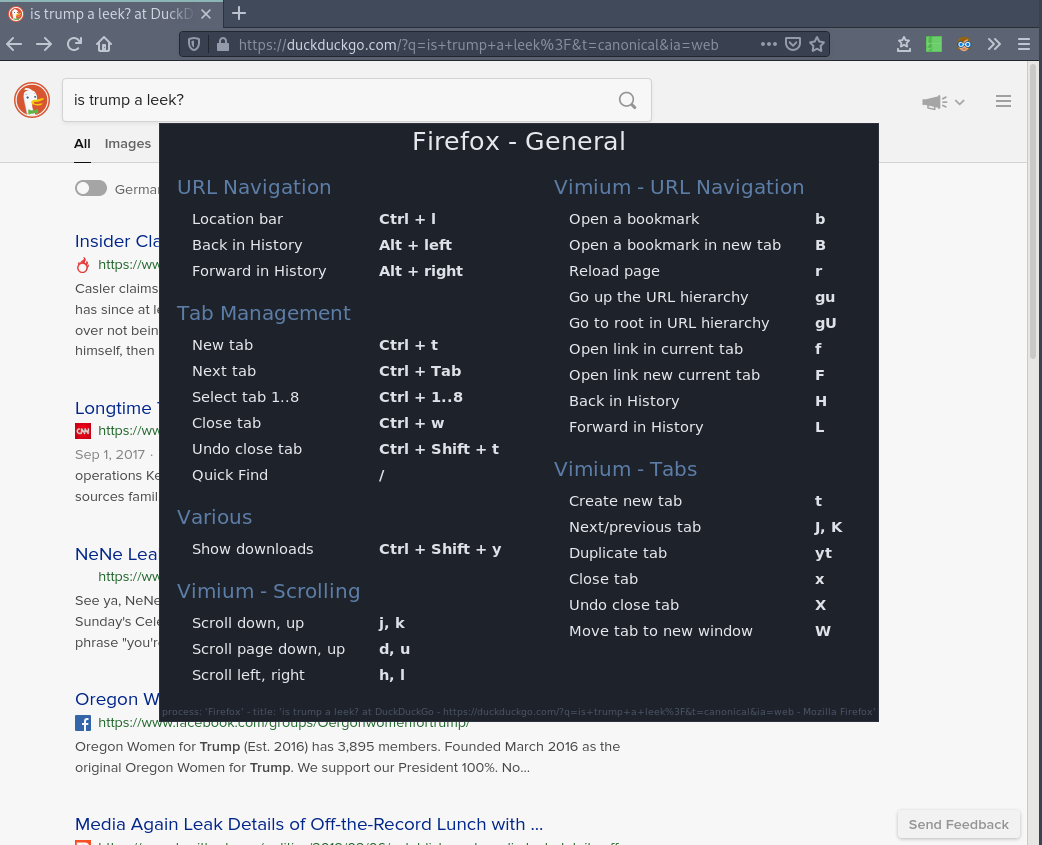
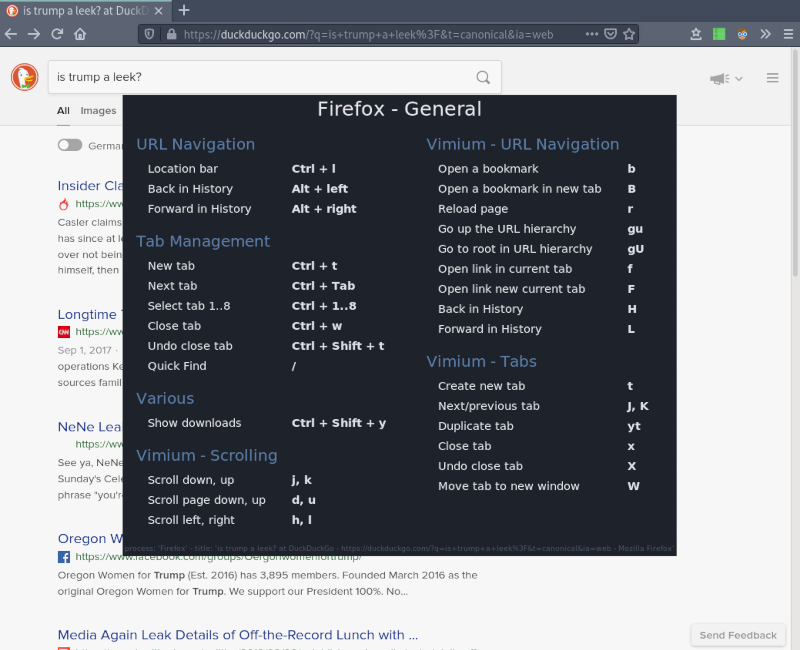
Update screenshots

diff --git a/README.md b/README.md
@@ -15,21 +15,9 @@ The tool can be started by `python -m keyhint` or simply `keyhint`. But as the *
 
 Based on the **process name** and **window title**, different sets of hints can be displayed.
 
-_General Firefox Shortcuts:_
+_Screenshots of some hints:_
 
-![General Firefox Shortcuts](assets/firefox.png)
-
-_Shortcuts on GitHub:_
-
-![Shortcuts on GitHub](assets/github.png)
-
-_VSCode Keybindings:_
-
-![VSCode Keybindings](assets/vscode.png)
-
-_Shell Commands:_
-
-![Shell Commands](assets/terminal.png)
+![General Firefox Shortcuts](assets/demo.gif)
 
 ## Installation
 
